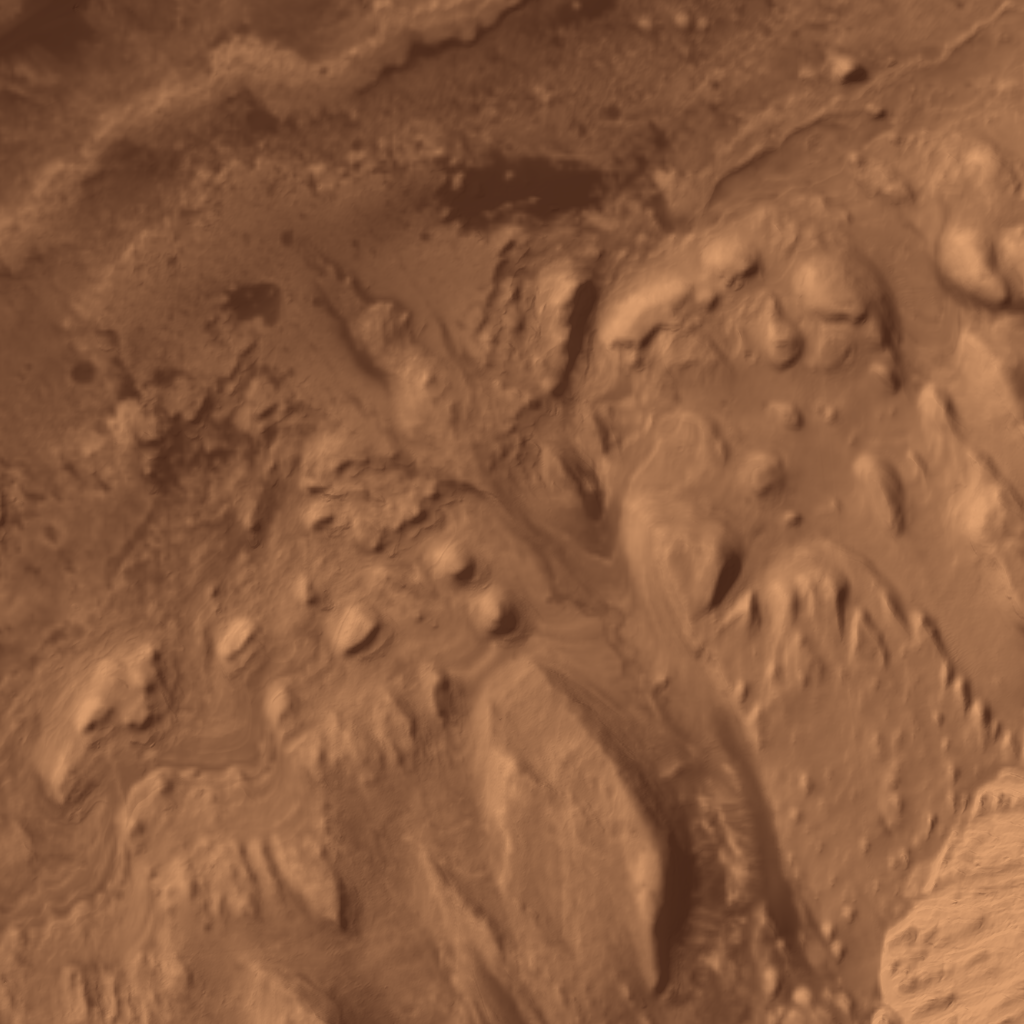
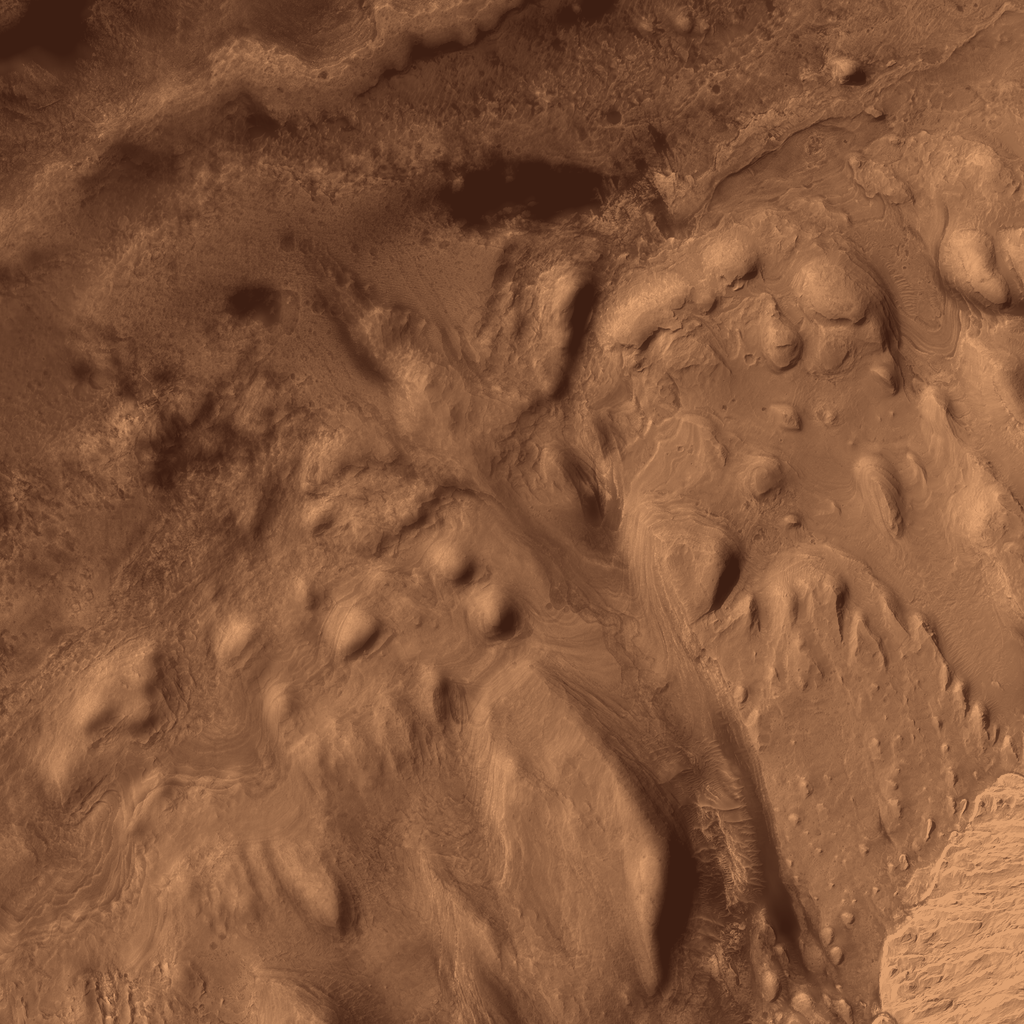
feat"model number 3, with the alpha game v4,better textures"

diff --git a/mars-survival-map/src/engine/scene.js b/mars-survival-map/src/engine/scene.js
@@ -2,7 +2,7 @@ import * as THREE from "three";
 import { assetUrl } from "../data.js";
 
 // Colores de Marte (sRGB) para la rampa de albedo: sombra -> polvo -> roca clara
-const COL_LO = "#2b140c", COL_MID = "#a55f39", COL_HI = "#ecc09a";
+const COL_LO = "#1f0f09", COL_MID = "#8a5536", COL_HI = "#dcb48f";
 const HORIZON_DAY = new THREE.Color("#d2a37c"), ZENITH_DAY = new THREE.Color("#8f6a55");
 const STORM_TINT = new THREE.Color("#8a3b1c");
 
@@ -75,7 +75,7 @@ const TERRAIN_FS = /* glsl */ `
   uniform sampler2D uAO;         // fraccion de cielo visible
   uniform sampler2D uOverlay;
   uniform sampler2D uDetail;
-  uniform float uHasHD, uOverlayOn, uFogDensity, uUseFlat, uStorm;
+  uniform float uHasHD, uOverlayOn, uFogDensity, uUseFlat, uStorm, uSize;
   uniform vec3 uSunDir, uSunColor, uAmbient, uFogColor, uColLo, uColMid, uColHi;
   varying vec2 vUv;
   varying vec3 vNormalW;
@@ -90,35 +90,55 @@ const TERRAIN_FS = /* glsl */ `
     float near = 1.0 - smoothstep(25.0, 320.0, dist);
     float mid = 1.0 - smoothstep(250.0, 2600.0, dist);
 
-    vec3 N = normalize(vNormalW);
-    float g = 0.52;
-    float ao = 1.0;
-    if (uUseFlat < 0.5) {
-      vec3 nm = normalize(texture2D(uNormalMap, vUv).xyz * 2.0 - 1.0);
-      N = normalize(mix(N, nm, uHasHD));
-      vec3 a = texture2D(uAlbedo, vUv).rgb;
-      g = mix(dot(a, vec3(0.35, 0.5, 0.15)) * 1.25, a.r, uHasHD);
-      ao = mix(0.42, 1.0, smoothstep(0.6, 1.0, texture2D(uAO, vUv).r));
-    }
-
     vec4 d1 = texture2D(uDetail, vPosW.xz / 3.3);
     vec4 d2 = texture2D(uDetail, vPosW.xz / 27.0 + 0.37);
     vec4 d3 = texture2D(uDetail, vPosW.xz / 230.0 + 0.11);
+    vec4 d4 = texture2D(uDetail, vPosW.xz / 1900.0 + 0.53);
+
+    vec3 N = normalize(vNormalW);
+    // tono generico para el terreno lejano (fuera del recorte) y para el borde del recorte
+    float gFlat = 0.5 + (d3.r - 0.5) * 0.22 + (d4.a - 0.5) * 0.3;
+    float g = gFlat;
+    float ao = 1.0;
+    if (uUseFlat < 0.5) {
+      float edge = min(min(vUv.x, 1.0 - vUv.x), min(vUv.y, 1.0 - vUv.y));
+      float inside = smoothstep(0.0, 0.02, edge);         // en el borde se funde con el terreno lejano
+      vec3 nm = normalize(texture2D(uNormalMap, vUv).xyz * 2.0 - 1.0);
+      N = normalize(mix(N, nm, uHasHD * inside));
+      vec3 a = texture2D(uAlbedo, vUv).rgb;
+      float gt = mix(dot(a, vec3(0.35, 0.5, 0.15)) * 1.25, a.r, uHasHD);
+      float gBlur = texture2D(uAlbedo, vUv, 6.0).r;       // version desenfocada (mipmap)
+      g = mix(gBlur, gt, inside);
+      ao = mix(1.0, mix(0.42, 1.0, smoothstep(0.6, 1.0, texture2D(uAO, vUv).r)), inside);
+    } else {
+      // terreno lejano: prolonga el tono del borde del recorte y lo lleva al tono generico
+      vec2 uvw = vec2(vPosW.x / uSize + 0.5, 0.5 - vPosW.z / uSize);
+      vec2 uvc = clamp(uvw, 0.004, 0.996);
+      float outside = length((uvw - uvc) * uSize);
+      g = mix(texture2D(uAlbedo, uvc, 6.0).r, gFlat, smoothstep(0.0, 2200.0, outside) * 0.85 * uHasHD + (1.0 - uHasHD));
+    }
+    g = clamp((g - 0.5) * 1.25 + 0.5, 0.0, 1.0);          // un poco mas de contraste
 
     // roca en las pendientes, arena en lo llano
     float steep = 1.0 - N.y;
     float rock = smoothstep(0.045, 0.15, steep + (d2.r - 0.5) * 0.06);
     float strata = sin(vPosW.y * 1.9 + d2.a * 5.0 + d3.r * 6.0) * 0.5 + 0.5;
     strata = mix(strata, sin(vPosW.y * 7.1 + d1.a * 3.0) * 0.5 + 0.5, 0.3);
-    float ripples = sin((vPosW.x * 0.8 + vPosW.z * 0.55) * 2.2 + d2.r * 7.0) * 0.5 + 0.5;
-    float gSand = g * mix(1.0, 0.84 + 0.2 * d1.r + 0.12 * ripples, near) * mix(1.0, 0.9 + 0.2 * d2.r, mid);
-    float gRock = g * mix(1.0, 0.68 + 0.5 * strata, mid * 0.85) * mix(1.0, 0.78 + 0.44 * d1.a, near);
+    // ondulaciones de arena: solo cerca (lejos formarian un patron de rayas)
+    float close = 1.0 - smoothstep(12.0, 70.0, dist);
+    float ripples = sin((vPosW.x * 0.8 + vPosW.z * 0.55) * 2.6 + d2.r * 9.0 + d3.a * 14.0) * 0.5 + 0.5;
+    float gSand = g * mix(1.0, 0.86 + 0.28 * d1.r, near) * mix(1.0, 0.94 + 0.12 * ripples, close * (1.0 - rock)) * mix(1.0, 0.9 + 0.2 * d2.r, mid);
+    float gRock = g * mix(1.0, 0.55 + 0.7 * smoothstep(0.25, 0.75, strata), mid * 0.9) * mix(1.0, 0.76 + 0.48 * d1.a, near);
     vec3 base = ramp(clamp(mix(gSand, gRock * 0.94, rock), 0.0, 1.0));
-    base = mix(base, base * vec3(0.9, 0.84, 0.8), rock * 0.55);
+    base = mix(base, base * vec3(0.86, 0.78, 0.74), rock * 0.7);
 
     // relieve fino
     vec2 bump = (d1.gb - 0.5) * 1.7 * near + (d2.gb - 0.5) * 1.0 * mid;
+    bump += vec2(0.8, 0.55) * cos((vPosW.x * 0.8 + vPosW.z * 0.55) * 2.6 + d2.r * 9.0 + d3.a * 14.0) * 0.1 * close * (1.0 - rock);
     N = normalize(N + vec3(bump.x, 0.0, bump.y) * mix(0.5, 1.25, rock));
+    // los estratos forman pequenos escalones: oscurecen la cara inferior de cada capa
+    float ledge = smoothstep(0.55, 0.75, strata) - smoothstep(0.75, 0.95, strata);
+    base *= 1.0 - 0.22 * ledge * rock * mid;
 
     float ndl = max(dot(N, uSunDir), 0.0);
     vec3 col = base * (uAmbient * ao + uSunColor * ndl);
@@ -178,7 +198,7 @@ export class MarsScene {
     this.renderer.setPixelRatio(Math.min(window.devicePixelRatio, 1.75));
     this.renderer.outputColorSpace = THREE.SRGBColorSpace;
     this.renderer.toneMapping = THREE.ACESFilmicToneMapping;
-    this.renderer.toneMappingExposure = 1.12;
+    this.renderer.toneMappingExposure = 1.22;
     this.renderer.shadowMap.enabled = true;
     this.renderer.shadowMap.type = THREE.PCFSoftShadowMap;
     this.scene = new THREE.Scene();
@@ -281,8 +301,8 @@ export class MarsScene {
     const st = this.storm;
     if (this.terrainMat) {
       const k = 1 - 0.45 * st;
-      this.terrainMat.uniforms.uSunColor.value.setRGB(1.5 * day * k, (1.36 - 0.25 * low) * day * k, (1.2 - 0.45 * low) * day * k);
-      this.terrainMat.uniforms.uAmbient.value.setRGB(0.26 + 0.2 * day, 0.2 + 0.15 * day, 0.17 + 0.11 * day);
+      this.terrainMat.uniforms.uSunColor.value.setRGB(1.3 * day * k, (1.2 - 0.22 * low) * day * k, (1.08 - 0.4 * low) * day * k);
+      this.terrainMat.uniforms.uAmbient.value.setRGB(0.2 + 0.2 * day, 0.17 + 0.16 * day, 0.15 + 0.13 * day);
     }
     const hz = this.skyMat.uniforms.uHorizon.value.copy(HORIZON_DAY).multiplyScalar(0.3 + 0.7 * day).lerp(STORM_TINT, 0.55 * st);
     this.skyMat.uniforms.uZenith.value.copy(ZENITH_DAY).multiplyScalar(0.22 + 0.78 * day).lerp(STORM_TINT, 0.4 * st);
@@ -305,7 +325,7 @@ export class MarsScene {
     return {
       uAlbedo: { value: T.albedo }, uNormalMap: { value: T.normal }, uAO: { value: T.ao },
       uOverlay: { value: T.empty }, uDetail: { value: T.detail },
-      uHasHD: { value: this.hasHD }, uOverlayOn: { value: 0 }, uUseFlat: { value: flat ? 1 : 0 }, uStorm: { value: 0 },
+      uHasHD: { value: this.hasHD }, uSize: { value: this.world.size }, uOverlayOn: { value: 0 }, uUseFlat: { value: flat ? 1 : 0 }, uStorm: { value: 0 },
       uSunDir: { value: this.sunDir }, uSunColor: { value: new THREE.Color(1.3, 1.2, 1.05) }, uAmbient: { value: new THREE.Color(0.4, 0.32, 0.26) },
       uFogColor: { value: this.fogColor }, uFogDensity: { value: 0.00013 },
       uColLo: { value: new THREE.Color(COL_LO) }, uColMid: { value: new THREE.Color(COL_MID) }, uColHi: { value: new THREE.Color(COL_HI) },
@@ -505,7 +525,7 @@ export class MarsScene {
           float a = fade * (0.22 + 0.2 * pulse) * uPower;
           gl_FragColor = vec4(uColor * a, a); }`,
     });
-    const beam = new THREE.Mesh(new THREE.CylinderGeometry(1.6, 2.4, tall, 20, 1, true), beamMat);
+    const beam = new THREE.Mesh(new THREE.CylinderGeometry(0.35, 0.9, tall, 16, 1, true), beamMat);
     beam.position.set(x, y + tall / 2, z);
     g.add(beam);
     // anillo del radio de escaneo, apoyado en el terreno
@@ -527,7 +547,8 @@ export class MarsScene {
     halo.position.copy(gem.position);
     halo.rotation.x = Math.PI / 2;
     g.add(gem, halo);
-    const b = { group: g, beamMat, ring, ringMat, gem, halo, gemMat, baseY: y + 16, color, target: false };
+    const b = { group: g, beamMat, ring, ringMat, gem, halo, gemMat, baseY: y + 16, color, target: false, power: 1, x, z };
+    g.visible = false;
     this.beacons.push(b);
     this.scene.add(g);
     return b;
@@ -541,7 +562,7 @@ export class MarsScene {
     b.gemMat.color.copy(b.color);
     b.ring.visible = target || shelter;
     b.gem.visible = b.halo.visible = target;
-    b.beamMat.uniforms.uPower.value = target ? 1.25 : 0.55;
+    b.power = target ? 1.6 : shelter ? 0.35 : 0.7;
   }
 
   // ---- ruta sugerida ------------------------------------------------------------------------
@@ -591,6 +612,9 @@ export class MarsScene {
     for (const b of this.beacons) {
       if (!b.group.visible) continue;
       b.beamMat.uniforms.uTime.value = time;
+      // el haz se atenua de cerca para no tapar la vista
+      const dcam = Math.hypot(this.camera.position.x - b.x, this.camera.position.z - b.z);
+      b.beamMat.uniforms.uPower.value = b.power * Math.min(1, Math.max(0.12, (dcam - 10) / 90));
       if (b.target) {
         b.gem.position.y = b.baseY + Math.sin(time * 2.0) * 1.2;
         b.gem.rotation.y = time * 1.4;

diff --git a/mars-survival-map/src/main.js b/mars-survival-map/src/main.js
@@ -3,6 +3,7 @@ import { t, ui, getLang, setLang } from "./i18n.js";
 import { World } from "./engine/world.js";
 import { MarsScene } from "./engine/scene.js";
 import { Astronaut } from "./engine/astronaut.js";
+import { buildHabitat, buildRover, buildShelter } from "./engine/props.js";
 import { Controls } from "./engine/controls.js";
 import { Game } from "./gameplay/game.js";
 import { AlertSystem } from "./gameplay/alerts.js";
@@ -35,10 +36,10 @@ async function boot() {
   const beacons = {};
   for (const o of data.objectives.objectives) {
     const { x, z } = o.world;
-    if (o.id === "habitat") scene.addStructure("base", x, z);
-    else if (o.id === "rover") scene.addStructure("rover", x - 4, z);
-    else if (o.type === "shelter") scene.addShelterModule(x, z);
-    beacons[o.id] = scene.addBeacon(x, z, o.shelter ? "#3DDC97" : "#ffffff", game.radiusOf(o), o.shelter ? 120 : 380);
+    if (o.id === "habitat") buildHabitat(scene, x, z);
+    else if (o.id === "rover") buildRover(scene, x - 5, z + 2);
+    else if (o.type === "shelter") buildShelter(scene, x, z);
+    beacons[o.id] = scene.addBeacon(x, z, game.radiusOf(o), o.shelter ? 120 : 380);
   }
   const updateBeacons = () => {
     const tg = game.target;
@@ -46,9 +47,7 @@ async function boot() {
       const o = game.objectives[id];
       const isT = tg && id === tg.id;
       const done = o.type === "science" && game.missions.findIndex((m) => m.objective_id === id) < game.s.missionIndex;
-      b.visible = isT || o.shelter || (!done && o.type === "science");
-      b.userData.beamMat.uniforms.uColor.value.set(isT ? "#3DDC97" : o.shelter ? "#2a9d6c" : "#bfbfbf");
-      b.children[1].visible = isT || o.shelter;
+      scene.setBeacon(b, { visible: !!(isT || o.shelter || (!done && o.type === "science")), target: !!isT, shelter: !!o.shelter });
     }
   };
 
@@ -202,7 +201,7 @@ async function boot() {
       scene.camera.position.set(cx, scene.heightAt(cx, cz) + 45, cz);
       scene.camera.lookAt(titleCenter.x + 200, titleCenter.y + 120, titleCenter.z + 2500);
       scene.setTimeOfDay(9.5);
-      scene.updateRocks(cx, cz);
+      scene.setFocus(cx, scene.heightAt(cx, cz), cz);
     } else {
       if (s.phase === "playing" && !paused && $("scrGuide").hidden) {
         game.update(dt, controls.moveVector());
@@ -214,7 +213,7 @@ async function boot() {
       controls.updateCamera(scene.camera, { x: s.x, y, z: s.z }, (x, z) => scene.heightAt(x, z));
       hud.camYaw = controls.yaw;
       scene.setTimeOfDay(game.hour);
-      scene.updateRocks(s.x, s.z);
+      scene.setFocus(s.x, y, s.z);
       // ruta sugerida (A*) recalculada cada 1,5 s
       if (s.routeOn && now - lastRoute > 1.5) {
         lastRoute = now;
@@ -228,7 +227,7 @@ async function boot() {
       hud.update(now);
       setWind(s.spe && s.spe.phase === "active" ? 0.09 : 0.05);
     }
-    scene.render(now);
+    scene.render(now, dt);
     if (DEBUG) {
       frames++; fpsT += dt;
       if (fpsT > 0.5) { $("fps").textContent = `${Math.round(frames / fpsT)} fps · x ${s.x.toFixed(0)} z ${s.z.toFixed(0)}`; frames = 0; fpsT = 0; }

diff --git a/mars-survival-map/data/scripts/build_layers.py b/mars-survival-map/data/scripts/build_layers.py
@@ -217,7 +217,14 @@ def main():
     L.hazard_overlay(tmp_lv, pal, OUT / "thermal_overlay.png")
     L.class_overlay(spectral, {k: v["color"] for k, v in SPECTRAL_CLASSES.items()}, OUT / "spectral_overlay.png")
 
-    if source == "real":
+    hd_albedo = ROOT / "public" / "textures" / "albedo_hd.jpg"
+    if source == "real" and hd_albedo.exists():
+        Image.MAX_IMAGE_PIXELS = None
+        g = np.asarray(Image.open(hd_albedo).convert("L").resize((n, n), Image.LANCZOS), dtype=np.float32) / 255
+        rgb = L.mars_tint(np.clip((g - 0.5) * 1.15 + 0.5, 0, 1))
+        optical_note = ("Ortoimagenes HiRISE (2 m) con el tono de CTX, reducidas a la cuadricula y coloreadas. "
+                        "La version de 4096 px para el motor esta en public/textures/albedo_hd.jpg (build_textures.py).")
+    elif source == "real":
         shade = 0.55 + 0.45 * L.hillshade(dem, px)
         rgb = L.mars_tint(np.clip(0.15 + 0.85 * albedo, 0, 1) * shade)
         optical_note = ("Ortoimagen CTX (MRO) reproyectada al recorte, coloreada en tonos marcianos "
